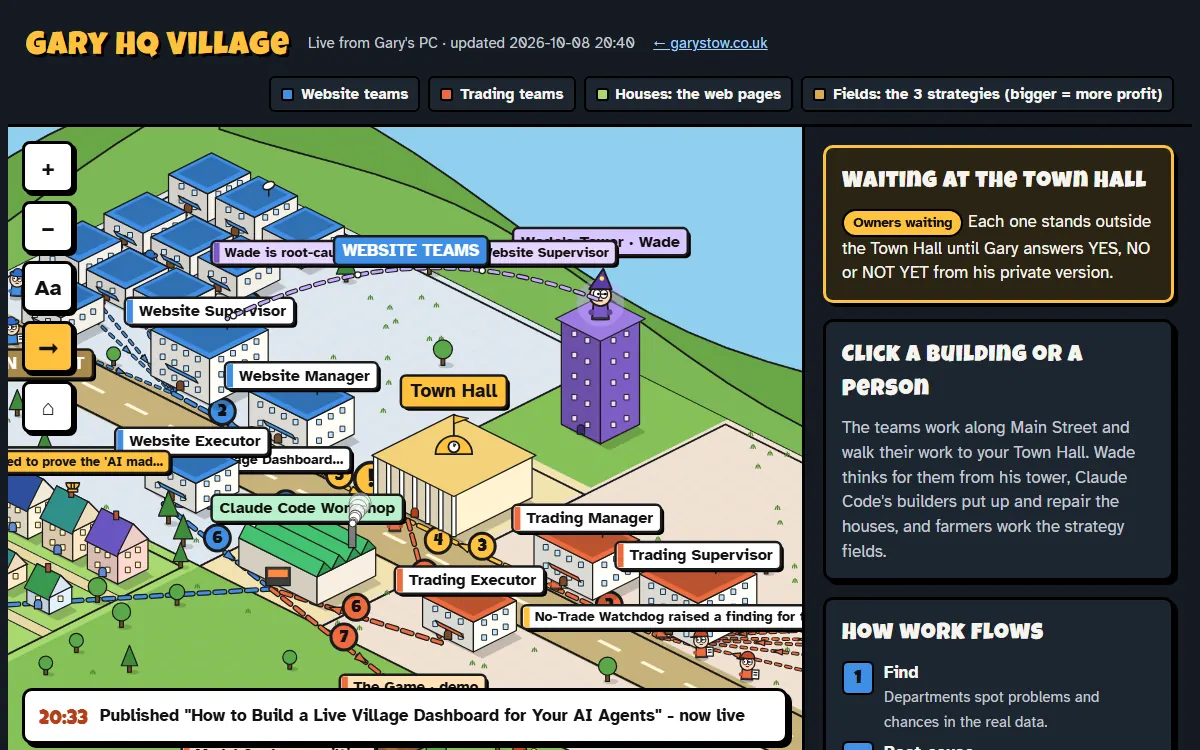
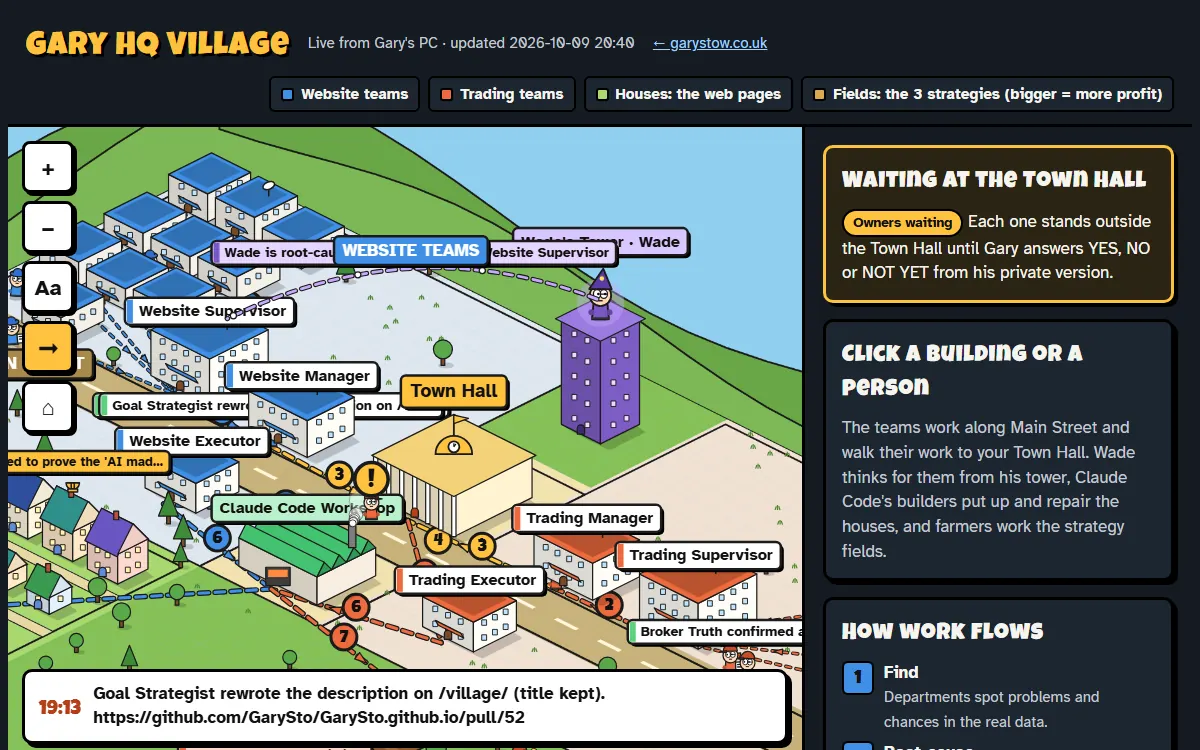
Village: refresh the public data (2026-10-09 20:40) + starter code button

diff --git a/village/index.html b/village/index.html
@@ -4,12 +4,12 @@
 <meta charset="utf-8">
 <meta name="viewport" content="width=device-width, initial-scale=1, viewport-fit=cover">
 <title>Gary HQ Village: watch my AI teams at work — Gary Stow</title>
-<meta name="description" content="See my AI teams working as a cartoon village, Wade thinks, Claude builds, and farmers strategise. Watch problems turn into solutions.">
+<meta name="description" content="My real AI automation teams, drawn as a cartoon village. Watch the website and trading teams find problems, Wade think, Claude Code build, and work wait at the Town Hall for my decision.">
 <meta name="robots" content="index, follow">
 <link rel="canonical" href="https://garystow.co.uk/village/">
 <meta property="og:type" content="website">
-<meta property="og:title" content="Gary HQ Village: watch my AI teams at work">
-<meta property="og:description" content="See my AI teams working as a cartoon village, Wade thinks, Claude builds, and farmers strategise. Watch problems turn into solutions.">
+<meta property="og:title" content="Gary HQ Village: my AI teams at work">
+<meta property="og:description" content="Real AI automation teams on my own PC, drawn as a village you can watch and click around.">
 <meta property="og:url" content="https://garystow.co.uk/village/">
 <link rel="icon" href="/favicon.ico">
 <script type="application/ld+json">

diff --git a/agents/index.html b/agents/index.html
@@ -104,6 +104,7 @@
       <div class="project-links">
         <a href="/village/" class="btn btn-accent">Open the Village ↗</a>
         <a href="/articles/how-to-build-a-live-village-dashboard-for-your-ai-agents/" class="btn">Build your own, step by step</a>
+        <a href="https://github.com/GarySto/village-starter" target="_blank" class="btn">Free starter code ↗</a>
       </div>
     </div>
   </div>
